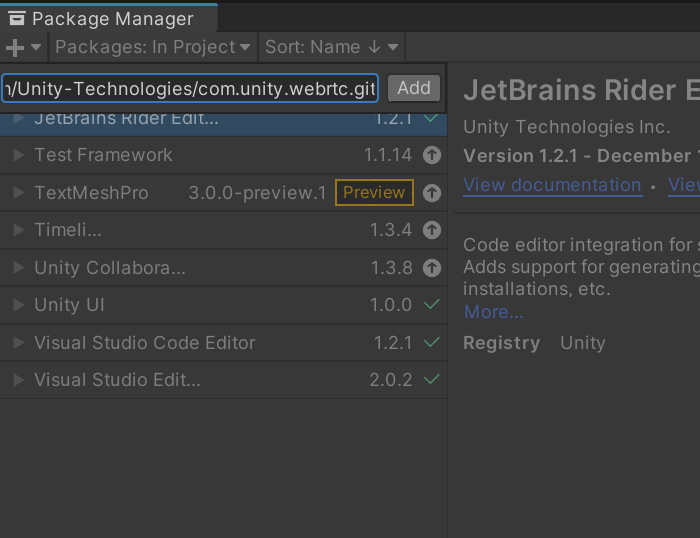
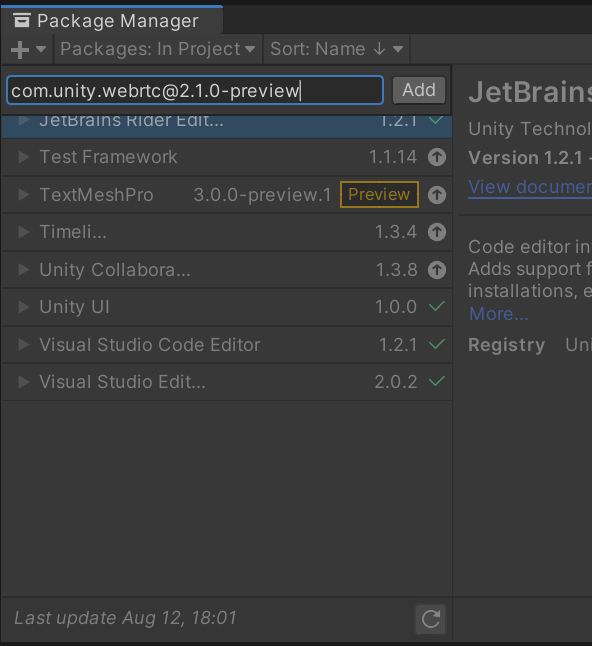
[skip ci] changd git url

diff --git a/Documentation~/jp/install.md b/Documentation~/jp/install.md
@@ -31,7 +31,7 @@
 
 4. 入力ボックスに以下の文字列を追加します。
 
-```https://github.com/Unity-Technologies/com.unity.webrtc.git#release/2.0.5```
+```com.unity.webrtc@2.1.0-preview```
 
 ![Input webrtc package git URL](../images/install_input_webrtc_git_url.png);
 

diff --git a/Documentation~/en/install.md b/Documentation~/en/install.md
@@ -31,7 +31,7 @@
 
 4. Input the string below to the input field.
 
-```https://github.com/Unity-Technologies/com.unity.webrtc.git#2.1.0-preview```
+```com.unity.webrtc@2.1.0-preview```
 
 ![Input webrtc package git URL](../images/install_input_webrtc_git_url.png);
 
